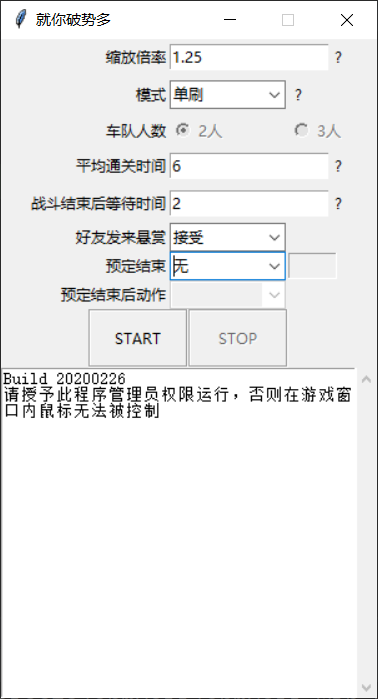
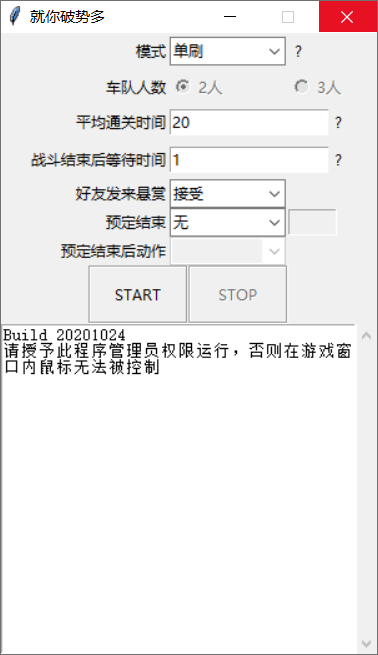
修改：替换截图

diff --git a/README.md b/README.md
@@ -1,6 +1,10 @@
     请不要传播！
     请不要传播！
     请不要传播！
+#### Build 20201024
+    修改：自动检测缩放比例，去除填写表单
+    增加：Ctrl + F2 进入debug模式，记录日志
+
 #### Build 20200226
     增加：预定结束模式增加超鬼王检测，发现鬼王停止挂机并播放音乐
     增加：Ctrl + F2 进入debug模式，记录日志
